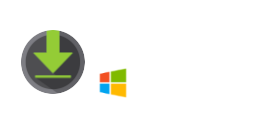
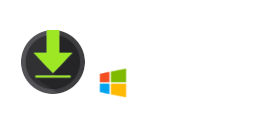
apps update

Changed region(s): [[0.0625, 0.2188, 0.3438, 0.75]]

diff --git a/css/main.css b/css/main.css
@@ -63,9 +63,9 @@
 #app001 {
 
 	position:relative;
-	left:50px;
-	width:200px;
-	padding:40px;
+	left:45px;
+	width:215px;
+	padding:45px;
 	opacity:1.0;
 	content:url("https://alectramell.github.io/apps/img/app001off.png");
 }
@@ -73,9 +73,9 @@
 #app001:hover {
 
 	position:relative;
-	left:50px;
-	width:200px;
-	padding:40px;
+	left:45px;
+	width:215px;
+	padding:45px;
 	opacity:1.0;
 	cursor:pointer;
 	content:url("https://alectramell.github.io/apps/img/app001on.png");

diff --git a/apps/index.html b/apps/index.html
@@ -14,7 +14,7 @@ Tramell Software Development (r)
 
 <img id='exitHomeBTN' src='../img/exitWHITE.png' title='Home' onclick="javascript:parent.location = 'https://alectramell.github.io';" />
 
-<img id='app001' src='img/app001off.png' onclick="window.open('windows/FileHawk-Installer.exe')"; />
+<img id='app001' src='img/app001off.png' title='Download FileHawk' onclick="window.open('windows/FileHawk-Installer.exe')"; />
 
 </body>
 </html>
